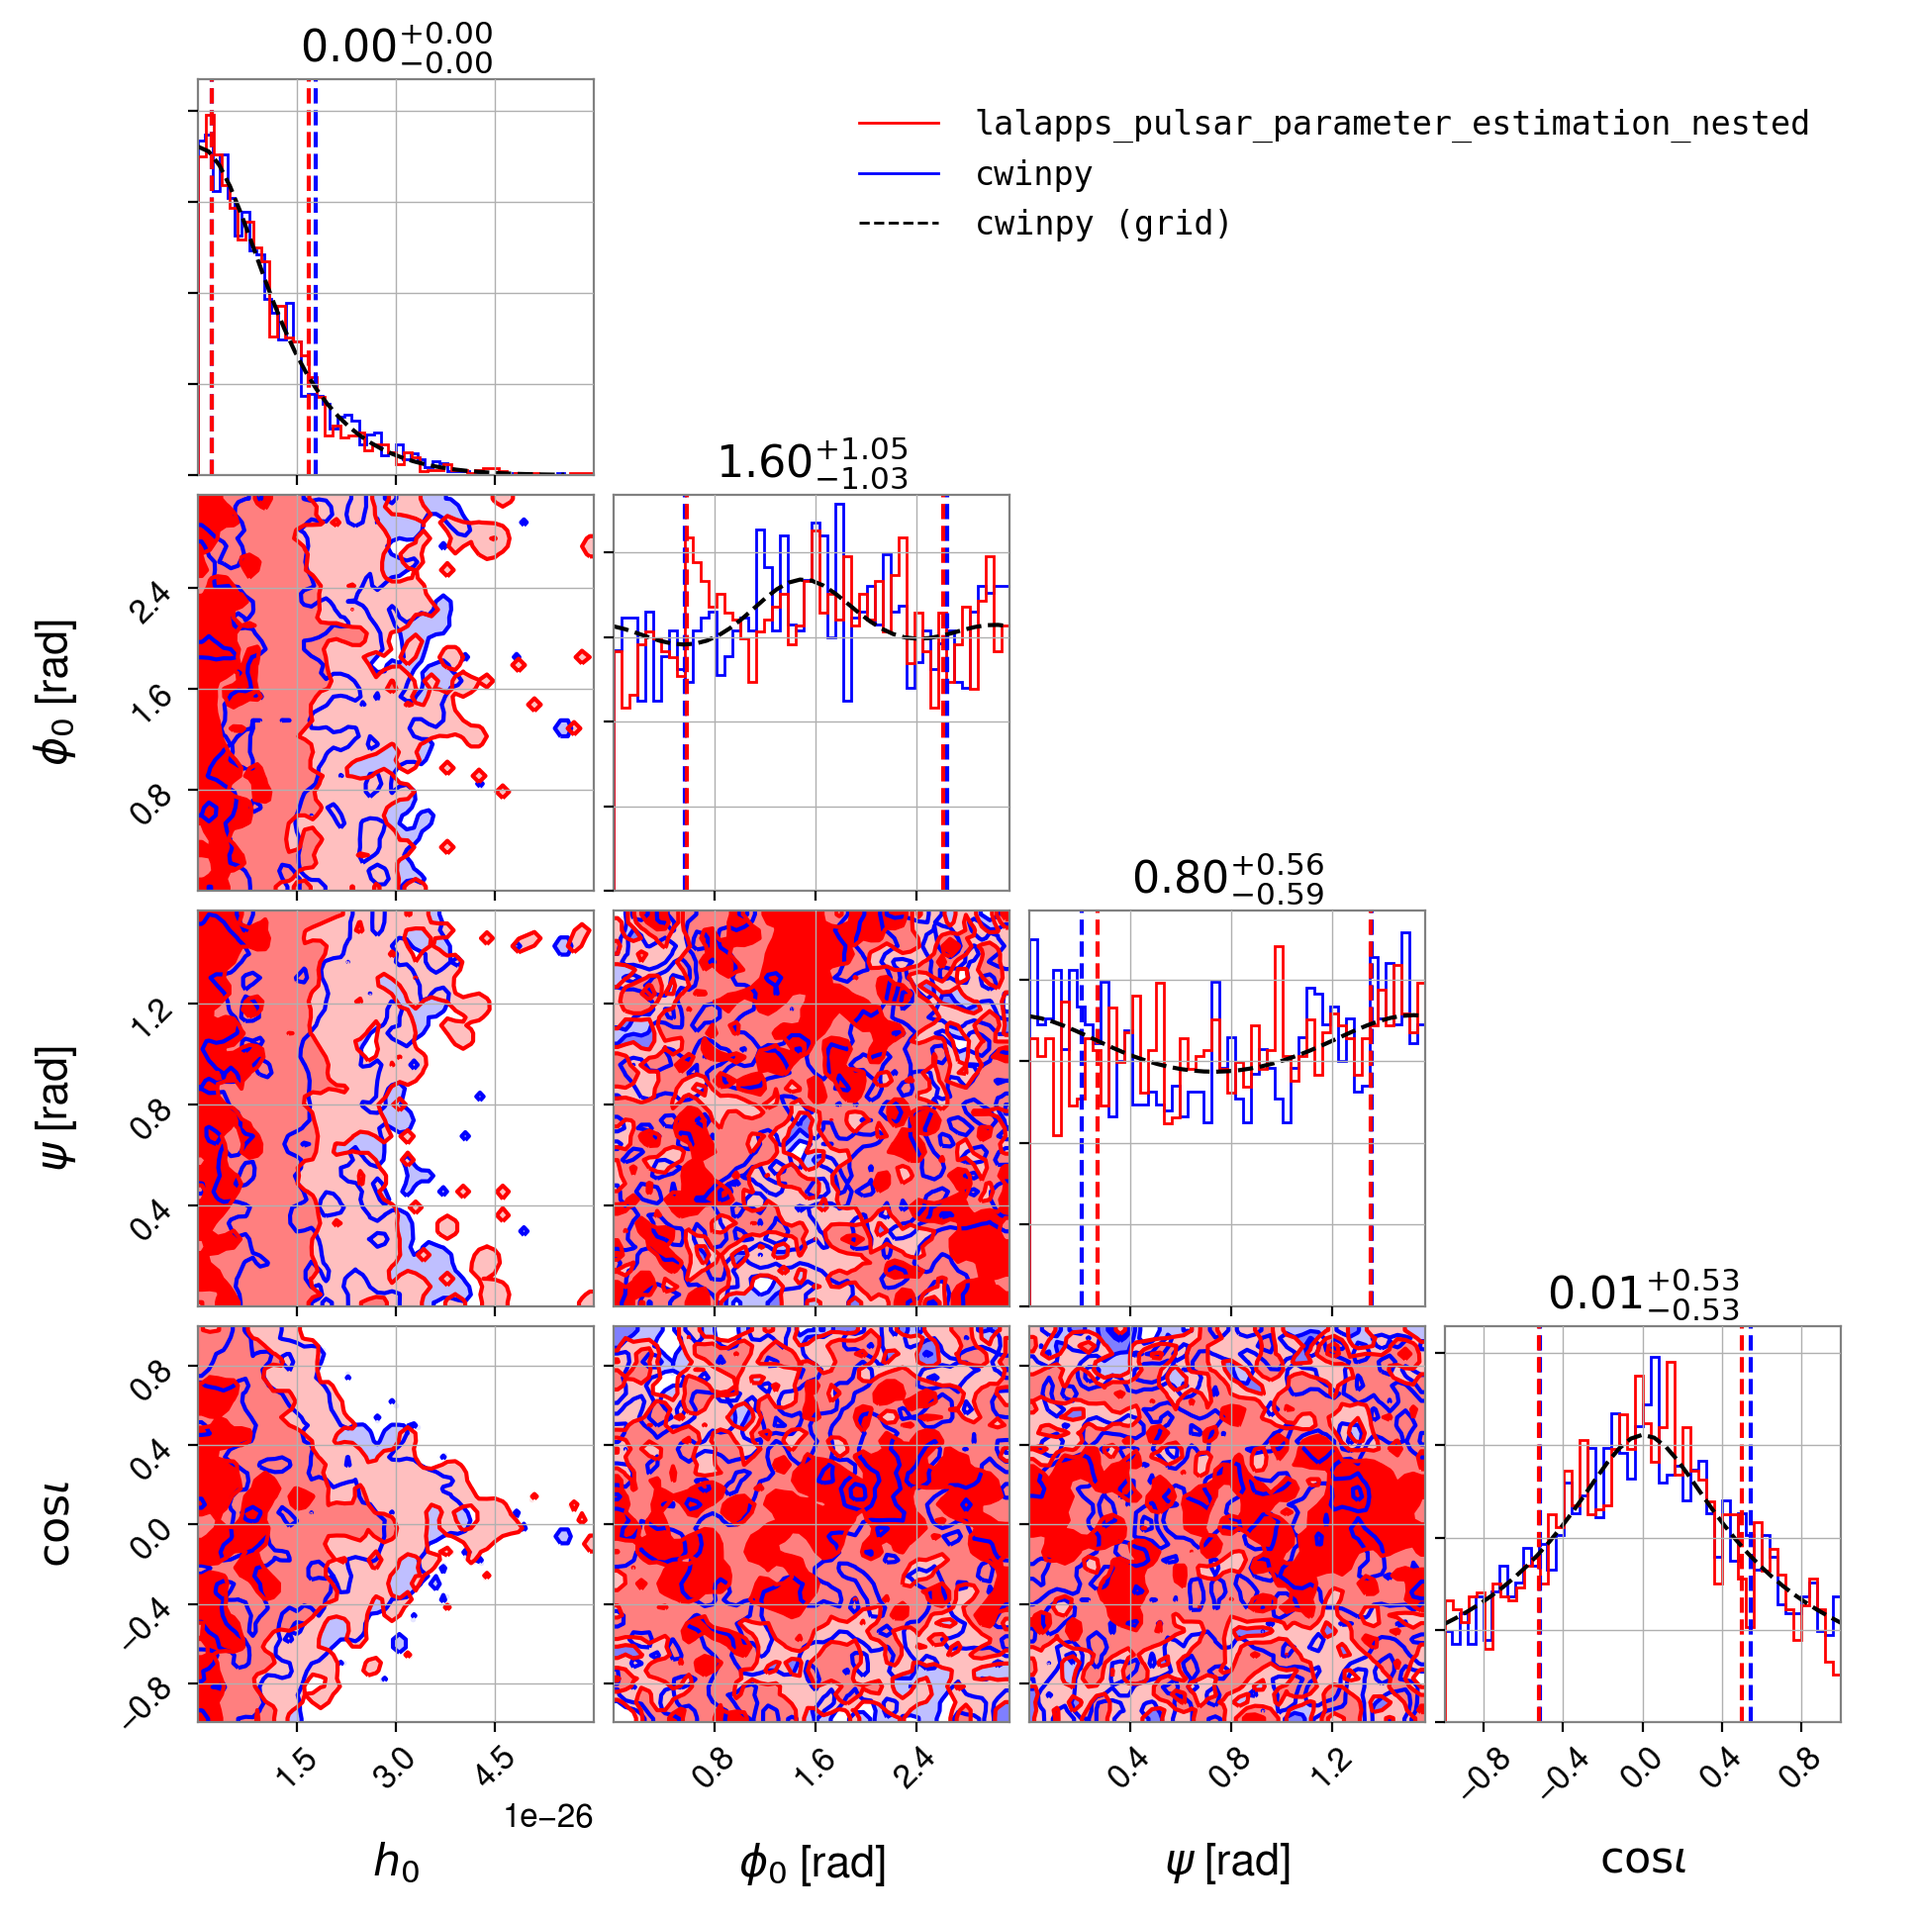
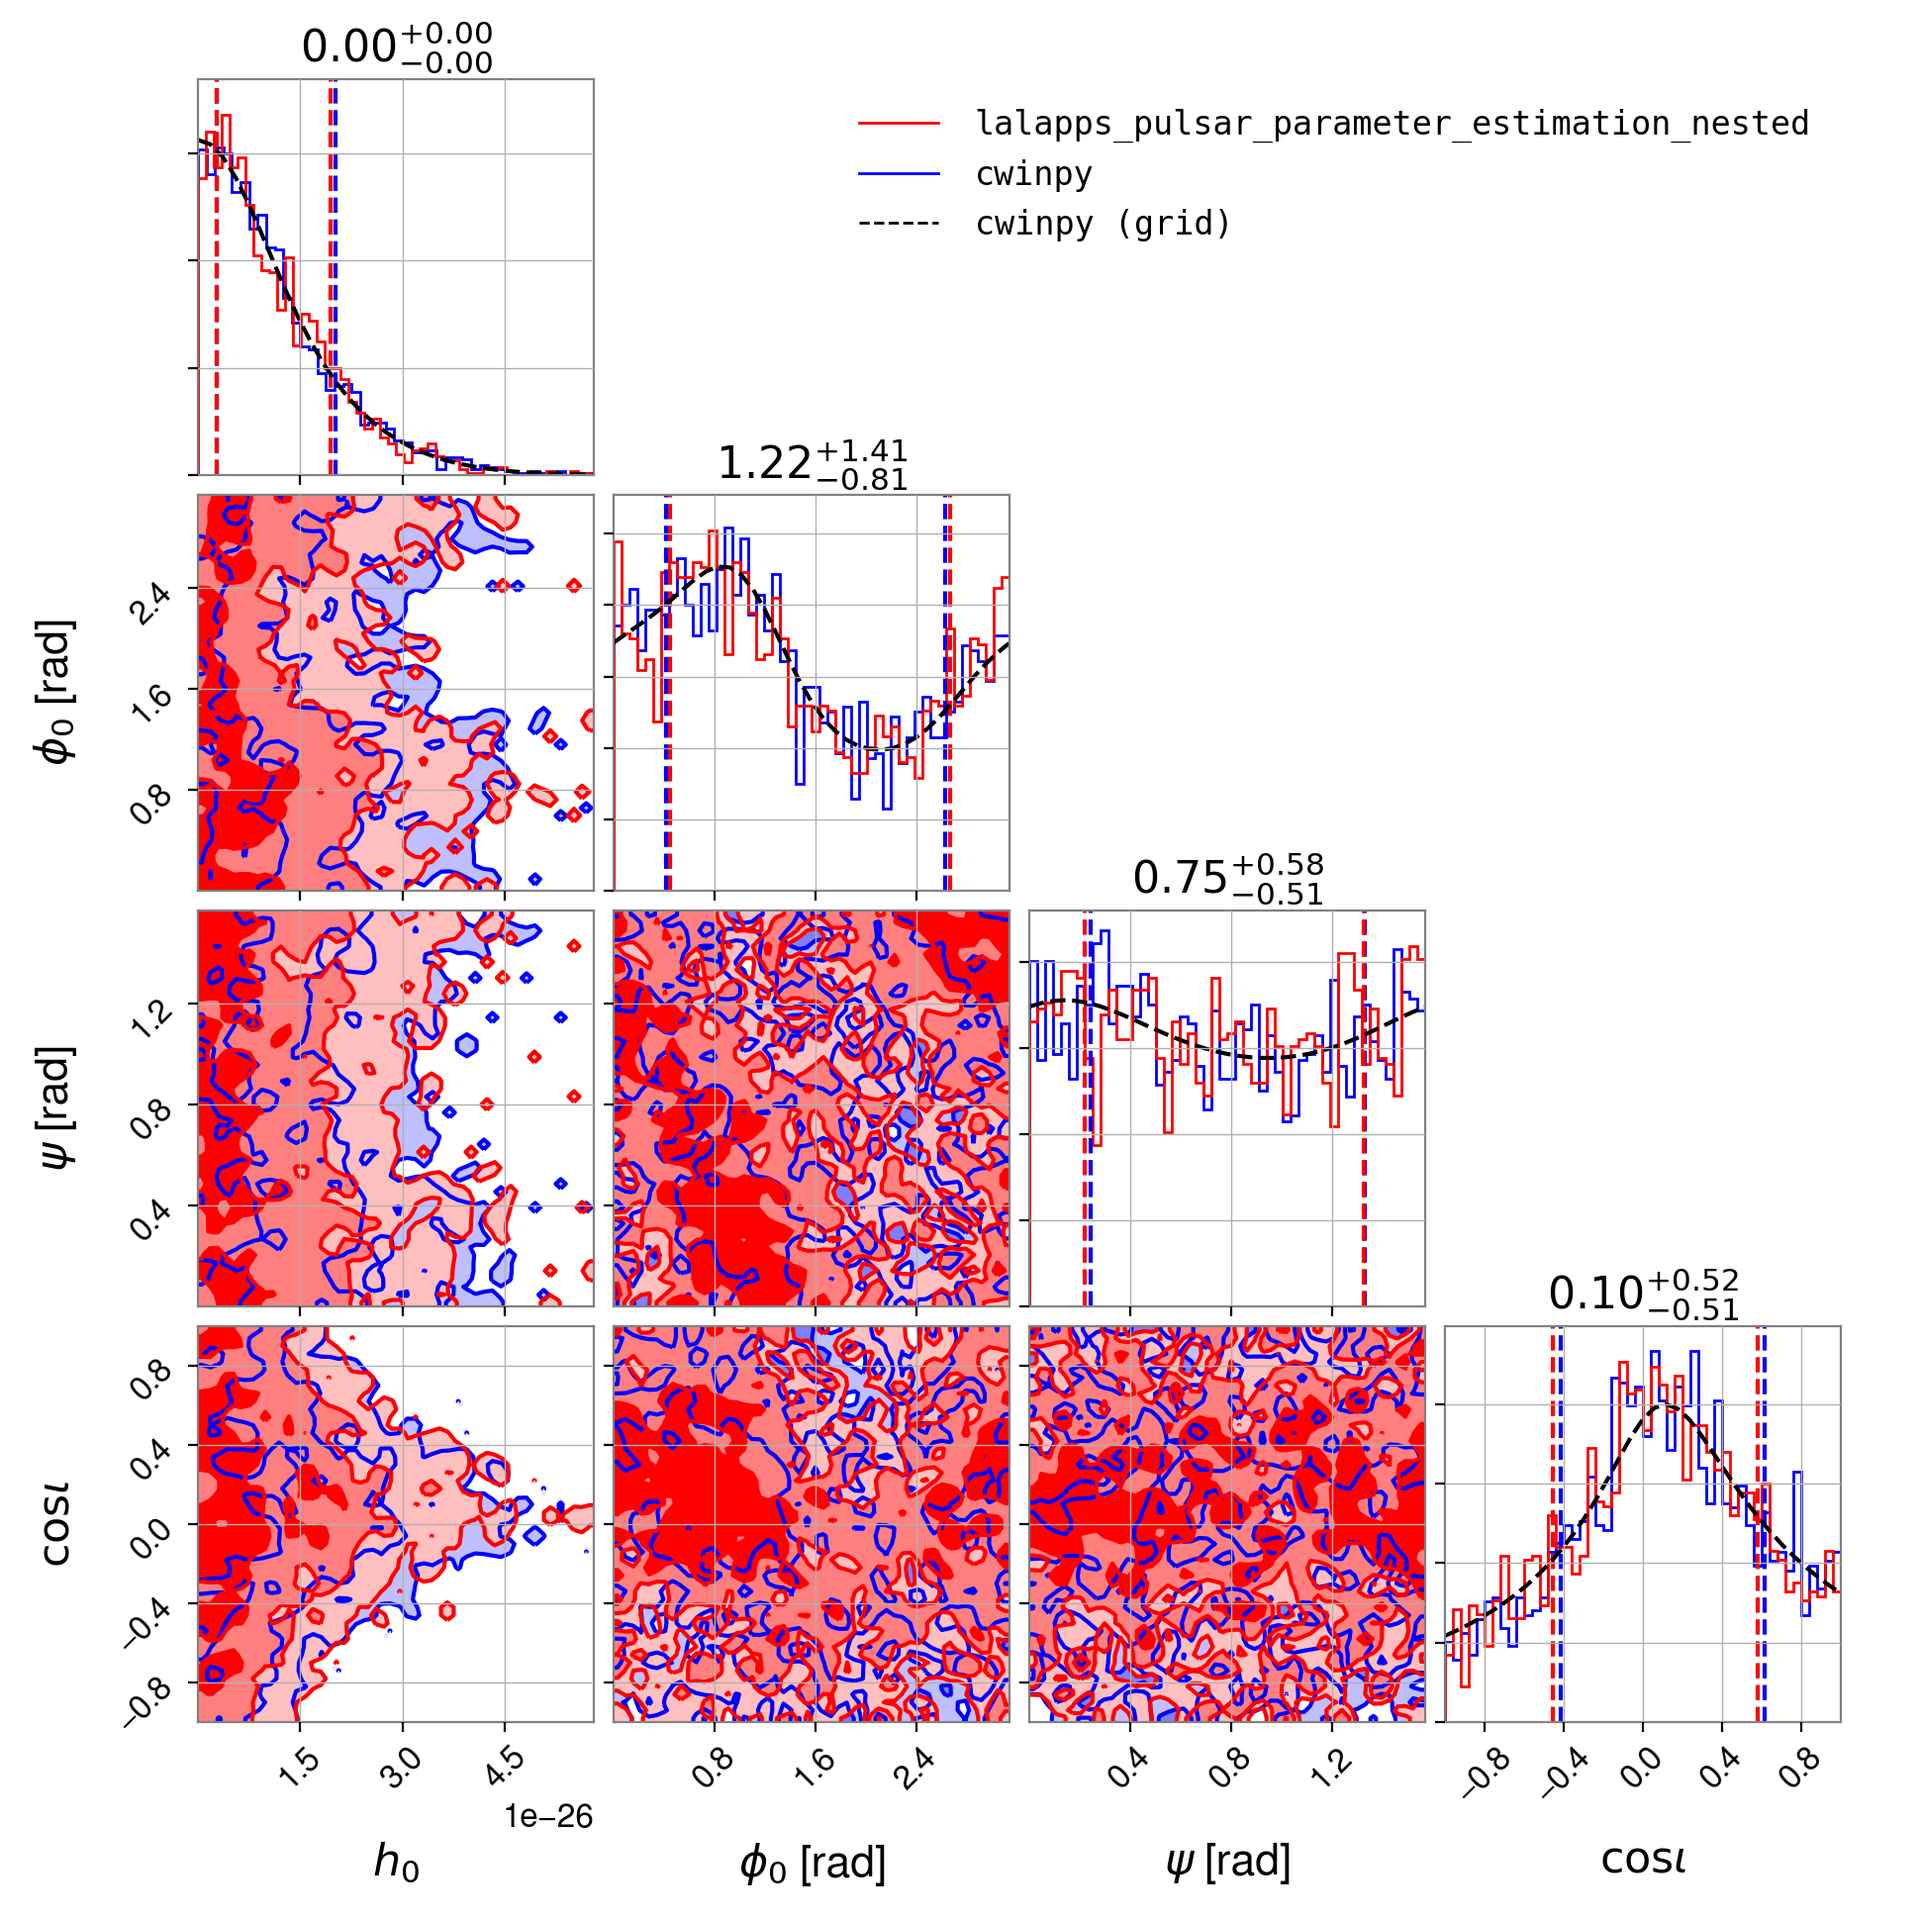
Add new script comparing cpnest to dynesty

diff --git a/docs/comparisons/scripts/single_detector_noise_only_boundaries.py b/docs/comparisons/scripts/single_detector_noise_only_boundaries.py
@@ -1,0 +1,136 @@
+#!/usr/bin/env python
+
+"""
+Compare cwinpy with lalapps_pulsar_parameter_estimation_nested for noise-only
+data for a single detector using reflective and circular boundaries, and
+comparing cpnest with dynesty
+"""
+
+import os
+import subprocess as sp
+import numpy as np
+import corner
+from collections import OrderedDict
+from cwinpy import HeterodynedData
+from cwinpy import TargetedPulsarLikelihood
+import bilby
+from bilby.core.prior import Uniform, PriorDict
+from bilby.core.grid import Grid
+from matplotlib import pyplot as pl
+from lalapps.pulsarpputils import pulsar_nest_to_posterior
+from astropy.utils.data import download_file
+from matplotlib.lines import Line2D
+import matplotlib.font_manager as font_manager
+
+# comparison function
+from comparitors import comparisons
+
+
+# URL for ephemeris files
+DOWNLOAD_URL = 'https://git.ligo.org/lscsoft/lalsuite/raw/master/lalpulsar/src/{}'
+
+# create a fake pulsar parameter file
+parcontent = """\
+PSRJ     J0123+3456
+RAJ      01:23:45.6789
+DECJ     34:56:54.321
+F0       567.89
+F1       -1.2e-12
+PEPOCH   56789
+H0       5.12e-25
+COSIOTA  0.3
+PSI      1.1
+PHI0     2.4
+"""
+
+label = 'single_detector_noise_only_boundaries'
+outdir = 'outputs'
+
+if not os.path.isdir(outdir):
+    os.makedirs(outdir)
+
+# add content to the par file
+parfile = os.path.join(outdir, '{}.par'.format(label))
+with open(parfile, 'w') as fp:
+    fp.write(parcontent)
+
+# create some fake heterodyned data
+detector = 'H1'  # the detector to use
+asd = 1e-24  # noise amplitude spectral density
+times = np.linspace(1000000000., 1000086340., 1440)  # times
+het = HeterodynedData(times=times, par=parfile, fakeasd=asd, detector=detector)
+
+# output the data
+hetfile = os.path.join(outdir, '{}_data.txt'.format(label))
+np.savetxt(hetfile, np.vstack((het.times, het.data.real, het.data.imag)).T)
+
+# create priors
+phi0range = [0., 2.*np.pi]
+psirange = [0., 2.*np.pi]
+cosiotarange = [-1., 1.]
+h0range = [0., 1e-23]
+
+# set prior for bilby
+priors = OrderedDict()
+priors['h0'] = Uniform(h0range[0], h0range[1], 'h0', latex_label=r'$h_0$', boundary='reflective')
+priors['phi0'] = Uniform(phi0range[0], phi0range[1], 'phi0', latex_label=r'$\phi_0$', unit='rad', boundary='periodic')
+priors['psi'] = Uniform(psirange[0], psirange[1], 'psi', latex_label=r'$\psi$', unit='rad', boundary='periodic')
+priors['cosiota'] = Uniform(cosiotarange[0], cosiotarange[1], 'cosiota', latex_label=r'$\cos{\iota}$', boundary='reflective')
+
+
+Nlive = 1024  # number of nested sampling live points
+
+# set ephemeris files
+efile = download_file(DOWNLOAD_URL.format('earth00-40-DE405.dat.gz'), cache=True)
+sfile = download_file(DOWNLOAD_URL.format('sun00-40-DE405.dat.gz'), cache=True)
+tfile = download_file(DOWNLOAD_URL.format('te405_2000-2040.dat.gz'), cache=True)
+
+# set the likelihood for bilby
+likelihood = TargetedPulsarLikelihood(het, PriorDict(priors))
+
+# run bilby with cpnest
+result = bilby.run_sampler(
+    likelihood=likelihood, priors=priors, sampler='cpnest', nlive=Nlive,
+    outdir=outdir, label=label, use_ratio=False)
+
+# run bilby with dynesty
+resultdynesty = bilby.run_sampler(
+    likelihood=likelihood, priors=priors, sampler='dynesty', nlive=Nlive,
+    outdir=outdir, label=label, use_ratio=False)
+
+# evaluate the likelihood on a grid
+gridpoints = 35
+grid_size = dict()
+for p in priors.keys():
+    grid_size[p] = np.linspace(np.min(result.posterior[p]), np.max(result.posterior[p]), gridpoints)
+
+#grid = Grid(likelihood, PriorDict(priors), grid_size=grid_size)
+
+# output comparisons
+#comparisons(label, outdir, grid, priors, cred=0.9)
+
+# plot results
+fig = result.plot_corner(save=False, parameters=list(priors.keys()), color='b')
+fig = corner.corner(resultdynesty.samples, fig=fig, color='r', bins=50, smooth=0.9,
+                    quantiles=[0.16, 0.84],
+                    levels=(1 - np.exp(-0.5), 1 - np.exp(-2), 1 - np.exp(-9 / 2.)),
+                    fill_contours=True, hist_kwargs={'density': True})
+axes = fig.get_axes()
+#axidx = 0
+#for p in priors.keys():
+#    axes[axidx].plot(grid.sample_points[p], np.exp(grid.marginalize_ln_posterior(
+#    not_parameter=p) - grid.log_evidence), 'k--')
+#    axidx += 5
+
+# custom legend
+legend_elements = [Line2D([], [], color='r', label='dynesty'),
+                   Line2D([], [], color='b', label='cpnest')] #,
+#                   Line2D([], [], color='k', ls='--', label='cwinpy (grid)')]
+font = font_manager.FontProperties(family='monospace')
+leg = axes[3].legend(handles=legend_elements, loc='upper right', frameon=False, prop=font,
+                     handlelength=3)
+for line in leg.get_lines():
+    line.set_linewidth(1.0)
+
+fig.savefig(os.path.join(outdir, '{}_corner.png'.format(label)), dpi=200)
+
